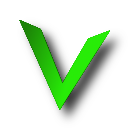
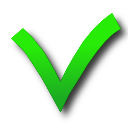
All the episodes of a season can now be marked as seen

Changed region(s): [[0.0938, 0.0938, 1.0, 0.9375]]

diff --git a/Plugins/SeriesPlugin/SeriesPlugin.qml b/Plugins/SeriesPlugin/SeriesPlugin.qml
@@ -332,6 +332,7 @@ Item3D
 
                     BackButton
                     {
+                        id : back_episode_button
                         anchors
                         {
                             bottom : parent.bottom
@@ -340,6 +341,29 @@ Item3D
                         }
                         onClicked : {followed_series_view.state = "shows_view";}
                     }
+
+                    Image
+                    {
+                        id : check_all_episode_season_button
+                        height : 50
+                        width : 50
+                        scale : check_all_button_ma.pressed ? 0.9 : 1
+                        source : "check_all.png"
+                        fillMode: Image.PreserveAspectFit
+                        MouseArea
+                        {
+                            id : check_all_button_ma
+                            anchors.fill: parent
+                            onClicked: {SeriesPlugin.markSeasonAsSeen(show_pathview_container.currentItem.serieId, season_pathview_container.currentItem.season)}
+                        }
+                        anchors
+                        {
+                            verticalCenter : parent.verticalCenter
+                            right : parent.right
+                            rightMargin : 5
+                        }
+                    }
+
                 }
 
                 DetailedEpisodeView

diff --git a/Plugins/SeriesPlugin/EpisodeListViewDelegate.qml b/Plugins/SeriesPlugin/EpisodeListViewDelegate.qml
@@ -10,6 +10,7 @@ Item
     property string episodeOverview
     property string img_src
     property string episodeSickbeardStatus
+    property bool   episodeSeen
 
     property real rotAngle : PathView.onPath ? PathView.delAngle : 0
     property bool isCurrentItem : PathView.isCurrentItem
@@ -85,14 +86,12 @@ Item
         id : episode_delegate__airing_text
         anchors
         {
-            right : dvd_cover.right
-            bottom : dvd_cover.bottom
-            margins : 10
+            left : show_pic.left
+            top : show_pic.top
+            margins : 2
         }
         color : "white"
-        text : episodeAiring.getHours() + ":"
-               + ((episodeAiring.getMinutes() < 10) ? ("0" + episodeAiring.getMinutes()) : episodeAiring.getMinutes())
-               + "-" + episodeAiring.getDate()
+        text : episodeAiring.getDate()
                + "/" + (episodeAiring.getMonth() + 1)
                + "/" + episodeAiring.getFullYear()
     }
@@ -141,11 +140,13 @@ Item
     {
         id : seen
         width : 20
+        visible : episodeSeen
         anchors
         {
-            bottom : parent.bottom
-            right : parent.right
+            bottom :dvd_cover.bottom
+            right : dvd_cover.right
             rightMargin : 10
+            bottomMargin : -5
         }
     }
 

diff --git a/Plugins/SeriesPlugin/SeasonPathView.qml b/Plugins/SeriesPlugin/SeasonPathView.qml
@@ -4,6 +4,7 @@ Item
 {
     id : season_pathview_container
     property alias model : followed_series_season_pathview.model
+    property alias currentItem : followed_series_season_pathview.currentItem
 
     states : [State    {PropertyChanges {target: season_path; x_target : mainWindow.width / 6} when : !seriesplugin_item.consultingEpisode},
               State    {PropertyChanges {target: season_path; x_target : 0} when : seriesplugin_item.consultingEpisode}]

diff --git a/Plugins/SeriesPlugin/EpisodePathView.qml b/Plugins/SeriesPlugin/EpisodePathView.qml
@@ -51,6 +51,7 @@ Item
             episodeOverview : model.episodeSummary
             episodeAiring : model.episodeAiring
             episodeSickbeardStatus:  model.episodeSickbeardStatus
+            episodeSeen : model.episodeSeen
             img_src : model.imageUrl
             width : mainWindow.width / 4
             height : mainWindow.height / 4

diff --git a/Plugins/SeriesPlugin/SeriesPlugin.cpp b/Plugins/SeriesPlugin/SeriesPlugin.cpp
@@ -177,6 +177,45 @@ QObject *SeriesPlugin::getShowsToAppearInTheWeek()
     }
 }
 
+void SeriesPlugin::markEpisodeAsSeen(int serieId, int seasonId, int episodeId)
+{
+    Models::SubListedListItem *serieItem = NULL;
+    Models::SubListedListItem *seasonItem = NULL;
+    if ((serieItem = reinterpret_cast<Models::SubListedListItem*>(this->followedSeriesModel->find(serieId))) != NULL &&
+            serieItem->submodel() != NULL &&
+            (seasonItem = reinterpret_cast<Models::SubListedListItem*>(serieItem->submodel()->find(seasonId))) != NULL &&
+            seasonItem->submodel() != NULL)
+    {
+        EpisodeListItem *episodeItem = reinterpret_cast<EpisodeListItem *>(seasonItem->submodel()->find(episodeId));
+        if (episodeItem != NULL)
+        {
+            episodeItem->setEpisodeSeen(true);
+            this->updateEpisodeInDatabase(episodeItem, serieId, seasonId);
+        }
+    }
+}
+
+void SeriesPlugin::markSeasonAsSeen(int serieId, int seasonId)
+{
+    Models::SubListedListItem *serieItem = NULL;
+    Models::SubListedListItem *seasonItem = NULL;
+    if ((serieItem = reinterpret_cast<Models::SubListedListItem*>(this->followedSeriesModel->find(serieId))) != NULL &&
+            serieItem->submodel() != NULL &&
+            (seasonItem = reinterpret_cast<Models::SubListedListItem*>(serieItem->submodel()->find(seasonId))) != NULL &&
+            seasonItem->submodel() != NULL)
+    {
+        foreach (Models::ListItem *episodeItem, seasonItem->submodel()->toList())
+        {
+            EpisodeListItem *episode = reinterpret_cast<EpisodeListItem *>(episodeItem);
+            if (episode != NULL)
+            {
+                episode->setEpisodeSeen(true);
+                this->updateEpisodeInDatabase(episode, serieId, seasonId);
+            }
+        }
+    }
+}
+
 void SeriesPlugin::updateFollowedShows()
 {
     foreach (Models::ListItem *showItem, this->followedSeriesModel->takeRows())
@@ -618,7 +657,7 @@ void SeriesPlugin::updateOnlineUpdatedShowsCallBack(QNetworkReply *reply, void *
                             qDebug() << "Updating shows " << showItem->data(SerieSubListedItem::serieName).toString() << "Show " << showItem->data(SerieSubListedItem::serieLastUpdate).toDateTime() << "Stream "   << QDateTime::fromTime_t(showObj.value("last_updated").toDouble());
                             this->updateShowSummary(reinterpret_cast<SerieSubListedItem*>(
                                                         this->followedSeriesModel->takeRow(
-                                                        this->followedSeriesModel->rowIndexFromId(showItem->id()))));
+                                                            this->followedSeriesModel->rowIndexFromId(showItem->id()))));
                         }
                     }
                 }

diff --git a/Plugins/SeriesPlugin/SeriesPlugin.h b/Plugins/SeriesPlugin/SeriesPlugin.h
@@ -101,6 +101,8 @@ public:
     Q_INVOKABLE                 QObject* getEpisodesFromSeasonAndShowId(int serieId, int seasonId) const;
     Q_INVOKABLE                 QObject* getSearchSeriesModel() const;
     Q_INVOKABLE                 QObject* getShowsToAppearInTheWeek();
+    Q_INVOKABLE                 void     markEpisodeAsSeen(int serieId, int seasonId, int episodeId);
+    Q_INVOKABLE                 void     markSeasonAsSeen(int serieId, int seasonId);
     Q_INVOKABLE                 void     updateFollowedShows();
     Q_INVOKABLE                 void     searchForShow(QString showName);
     Q_INVOKABLE                 void     addShowToFollow(int serieId);
